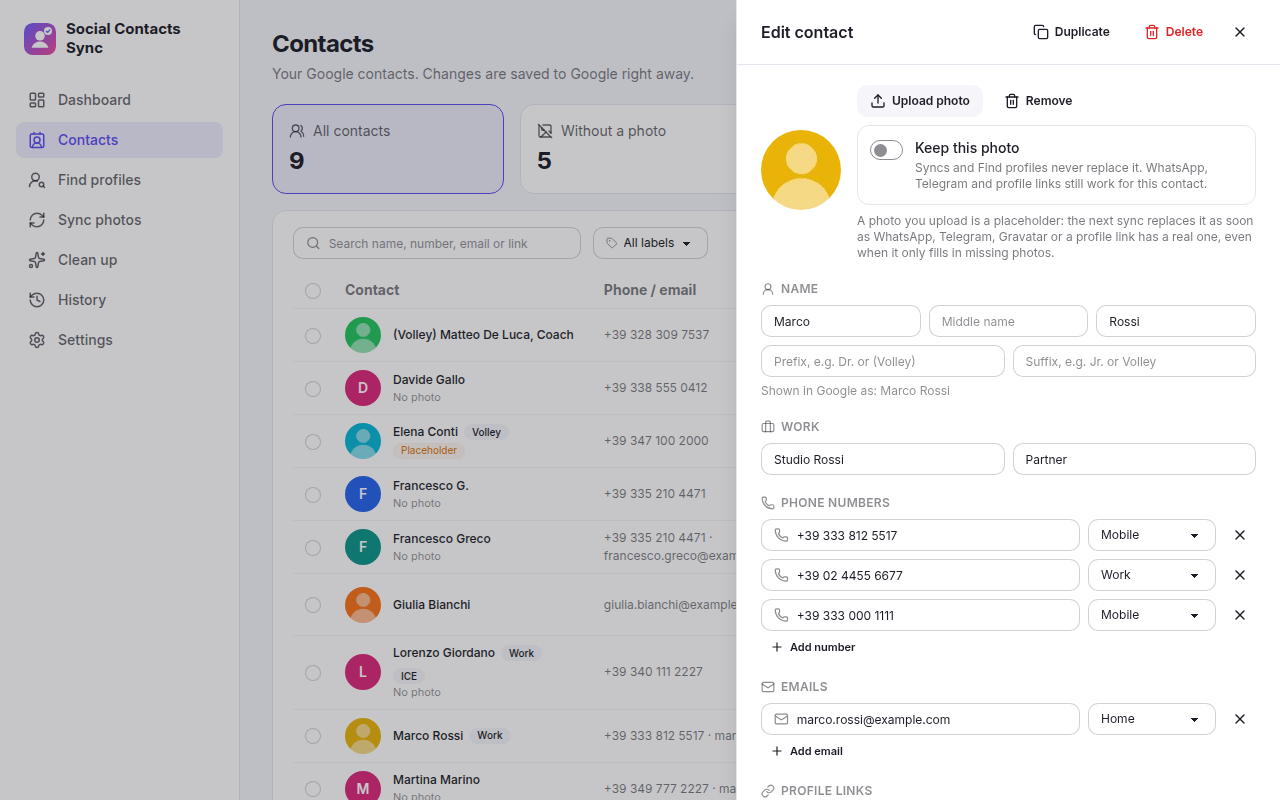
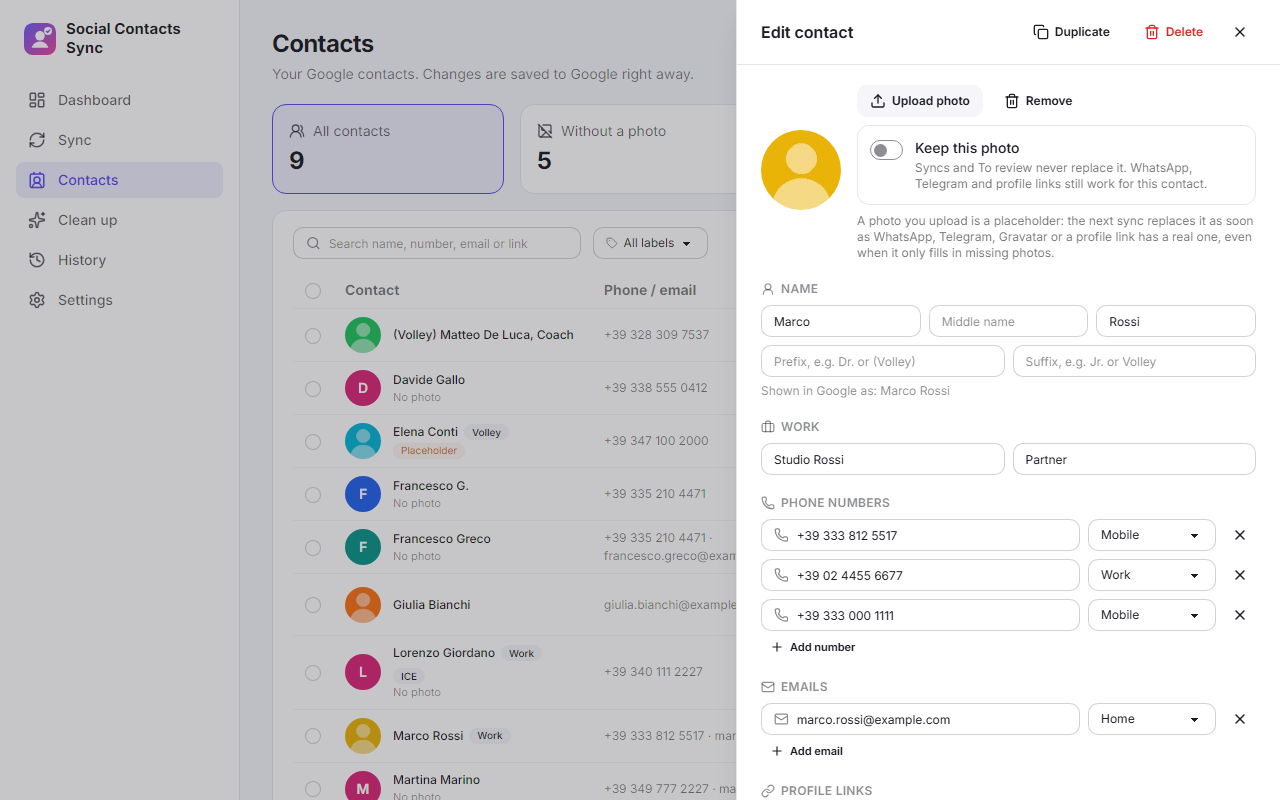
Document v1.4.0: CHANGELOG, README and screenshots
The CHANGELOG gets the 1.4.0 entry. The README describes the Sync page
(To review, Sources, Run), photos that follow their source, review
sessions in History and the Dashboard's next steps, lists the new data
files, and its screenshots come from the current app. Images nothing
links to any more are removed.

diff --git a/README.md b/README.md
@@ -24,7 +24,7 @@
 > [support him too](https://www.buymeacoffee.com/guyzyl).
 
 <p align="center">
-    <img src="docs/images/dashboard.png" alt="Dashboard: photo coverage, sources, recent activity" width="820"/>
+    <img src="docs/images/dashboard.png" alt="Dashboard: photo coverage in three parts, next steps, sources and recent activity" width="820"/>
 </p>
 
 ## Features
@@ -36,25 +36,35 @@
   profiles saved on a contact give it their public picture, with no sign-in.
   Instagram, Facebook and LinkedIn can be turned on too, unofficially. Add a
   link right from a sync report's "No photo found" list, or while reviewing.
-- **You stay in control.** Fill in only missing photos, replace them all, or
-  review each one with the keyboard.
-- **Nothing changes without a way back.** Every sync has a report and can be
-  undone, as a whole or one contact at a time.
-- **Find profiles.** Suggests the social profiles of your contacts, from your
-  own Instagram and LinkedIn data exports, a public search by name on Bluesky,
-  Mastodon and GitHub, and, experimental and off by default, a slow scan of
-  your own followers, friends and connections with your Instagram, Facebook or
-  LinkedIn login (against those sites' terms: your account may be limited or
-  suspended). Review them as a list or one contact at a time, link several
-  profiles to a contact and pick whose photo to use, or select many contacts
-  and link them in one go.
+- **A sync that applies what is safe.** It fills in missing photos and updates
+  the ones that follow a source. Everything else waits in *To review*: a
+  different photo for a contact that already has one, or a photo changed
+  outside the app. Or decide every contact yourself.
+- **Photos follow their source.** A photo picked from WhatsApp, Gravatar or a
+  profile keeps following it, so later syncs bring its new picture. A photo you
+  change by hand in Google is never overwritten.
+- **To review.** One card per contact, kept between sessions. Tick the social
+  profiles that are really them, and pick one photo among every source and
+  every profile. Confirm one contact, or select many and confirm them in one
+  go. The suggestions come from:
+  - your own Instagram and LinkedIn data exports;
+  - a public search by name on Bluesky, Mastodon and GitHub;
+  - experimental and off by default, a slow scan of your own followers, friends
+    and connections with your Instagram, Facebook or LinkedIn login. This goes
+    against those sites' terms: your account may be limited or suspended.
+- **Nothing changes without a way back.** Every sync and every review session
+  is in History, with a report. Undo one contact or the whole entry: the photo,
+  the profile links and the source the photo followed go back together.
+- **A dashboard that says what to do next.** How many contacts have a photo,
+  how many have one ready, and how many have no source yet, with the next steps
+  in order of impact.
 - **Contacts.** Every Google contact in one list, with the ones still without a
   photo one click away: edit every field, add, duplicate, delete, merge and
   label them, add a profile link to anyone, and upload photos by hand, one at a
   time or many at once. A photo uploaded by hand is a placeholder: the next sync
-  replaces it as soon as a source has a real one. Or keep a photo: then no sync
-  and no Find profiles replaces it, while links to WhatsApp and social profiles
-  still work for that contact.
+  replaces it as soon as a source has a real one. Or keep a photo: then nothing
+  in the app replaces it, while links to WhatsApp and social profiles still
+  work for that contact.
 - **Clean up.** Find duplicate contacts and merge them field by field, find
   numbers saved on different people, and add missing country codes. Every
   change is backed up and can be undone from History.
@@ -63,15 +73,15 @@
   and sign-ins are kept encrypted with your system's keychain.
 - **English and Italian; light, dark or system theme.**
 
-| Sync photos | Report and undo |
+| To review | Run a sync |
 |---|---|
-| ![Sync setup](docs/images/sync-setup.png) | ![Sync report](docs/images/sync-report.png) |
-| **Contacts** | **Edit every field, or keep a photo** |
-| ![Contacts](docs/images/contacts.png) | ![Contact editor](docs/images/contact-edit.png) |
-| **Find profiles** | **Where the profiles come from** |
-| ![Find profiles](docs/images/find-profiles.png) | ![Find profiles sources](docs/images/find-profiles-sources.png) |
-| **Add a profile link from a report** | **Updates with progress** |
-| ![Add a profile link](docs/images/report-add-link.png) | ![Update ready](docs/images/updates.png) |
+| ![To review](docs/images/sync-review.png) | ![Run a sync](docs/images/sync-run.png) |
+| **Where photos come from** | **Report and undo** |
+| ![Sync sources](docs/images/sync-sources.png) | ![Sync report](docs/images/sync-report.png) |
+| **History: syncs and reviews** | **Contacts** |
+| ![History](docs/images/history.png) | ![Contacts](docs/images/contacts.png) |
+| **Edit every field, or keep a photo** | **Updates with progress** |
+| ![Contact editor](docs/images/contact-edit.png) | ![Update ready](docs/images/updates.png) |
 | **Clean up duplicates** | **Setup wizard** |
 | ![Clean up](docs/images/cleanup.png) | ![Google project setup](docs/images/setup-google.png) |
 
@@ -123,7 +133,8 @@ The packages are not code-signed yet:
 4. **Link WhatsApp** by scanning a QR code, like WhatsApp Web, and/or **sign in
    to Telegram** with your phone number and the code Telegram sends you.
    Gravatar and profile links need no sign-in.
-5. **Sync photos** from the dashboard, and look at **Clean up** for duplicates.
+5. **Run a sync** from **Sync**, then go through what waits in **To review**.
+   The dashboard says what to do next, and **Clean up** finds duplicates.
 
 Google allows about 40 photo updates per minute, so a large address book takes a
 while; the app shows progress and an estimate.
@@ -285,12 +296,15 @@ The app stays signed in between launches, unless you turn off
 | `secret.key` | the key for `google-token.enc`, itself protected by the OS keychain (DPAPI, Keychain, libsecret/kwallet) |
 | `whatsapp/` | WhatsApp's linked-device session |
 | `telegram-session.enc` | the Telegram sign-in, encrypted like the Google one |
-| `history/` | past syncs with the photos they changed, for reports and undo (kept 90 days) |
+| `history/` | past syncs and review sessions with the photos they changed, for reports and undo (kept 90 days) |
 | `history/cleanup/` | backups of merged contacts (all their fields and photos), for undo (kept 90 days) |
 | `cleanup.json` | clean-up choices, such as groups marked *Not duplicates* |
 | `placeholders.json` | which contacts have a photo uploaded by hand on the Contacts page, so a sync can replace it |
 | `kept-photos.json` | which contacts' photos are kept: the app never replaces them |
-| `profiles.json` | Find profiles: the people read from your exports, searches and scans, and your answers |
+| `profiles.json` | the people read from your exports, searches and scans, and your answers in To review |
+| `review-queue.json` | the photos a sync sent to *To review*, and the ones you turned down |
+| `photo-pins.json` | which source each contact's photo follows |
+| `profile-reads.json` | desktop: what was read from each pinned profile with your login, and when |
 | `review-photos/` | the profile photos shown in Sync's *To review*, so a card keeps its photo after the site's address for it expires (kept 90 days) |
 | `update-pending.json` | for a moment while an update installs: what to do when it's done |
 | `logs/` | server logs |

diff --git a/CHANGELOG.md b/CHANGELOG.md
@@ -3,6 +3,81 @@
 What changed in each release of Social Contacts Sync. The packages are on the
 [releases page](https://github.com/easly1989/social-contacts-sync/releases).
 
+## 1.4.0 — 2026-10-18
+
+### Added
+
+- **One Sync page.** Find profiles and Sync photos are now one page with three
+  tabs: *To review*, *Sources* and *Run*. The old addresses lead to the right
+  tab, and the Sync item in the sidebar shows how many contacts wait in To
+  review. ([#81](https://github.com/easly1989/social-contacts-sync/issues/81))
+- **To review, kept between sessions.** One card per contact. Tick the
+  profiles that are really them, and pick one photo among every source:
+  WhatsApp, Telegram, Gravatar and each profile on its own, suggested or already
+  linked. Confirming links the profiles and applies the photo in one step. The
+  queue survives restarts, and you can work through it while a sync runs.
+  ([#77](https://github.com/easly1989/social-contacts-sync/issues/77),
+  [#81](https://github.com/easly1989/social-contacts-sync/issues/81))
+- **A sync that applies what is safe.**
+  ([#82](https://github.com/easly1989/social-contacts-sync/issues/82))
+  - *Run* fills in missing photos and updates the photos that follow a source.
+  - Everything else waits in To review: a different photo for a contact that
+    already has one, or a photo changed outside the app.
+  - *I decide every contact* applies nothing and sends every photo found to To
+    review.
+  - Progress shows each phase, with counters for applied, to review, no photo
+    found and errors.
+- **Photos follow their source.** A photo picked from a source keeps following
+  it, so later syncs update it when that profile's picture changes. A photo
+  changed by hand in Google is never overwritten: it waits in To review, where
+  you keep it or go back to the source's photo. The contact editor shows where
+  a photo comes from, and lets you unpin it.
+  ([#78](https://github.com/easly1989/social-contacts-sync/issues/78))
+- **Desktop: pinned profiles read again with your login.**
+  - Before the photos, a sync reads the pinned Instagram and Facebook profiles
+    one by one with your login, oldest first.
+  - It stops reading a network when that network asks to slow down, and the
+    report says how many profiles were read.
+  - LinkedIn can be read the same way, behind a setting and a first-time
+    notice: LinkedIn may record each read as a profile visit.
+  - Looking up an Instagram, Facebook or LinkedIn link uses the login too.
+  - ([#79](https://github.com/easly1989/social-contacts-sync/issues/79),
+    [#80](https://github.com/easly1989/social-contacts-sync/issues/80))
+- **Linked profiles per network.** Sources lists the profiles linked on your
+  contacts for each network. It shows how many there are and when the oldest
+  was read, and each network has its own switch.
+  ([#83](https://github.com/easly1989/social-contacts-sync/issues/83))
+- **Reviews in History.**
+  ([#84](https://github.com/easly1989/social-contacts-sync/issues/84))
+  - The decisions made in To review are saved as *Review* entries, next to the
+    syncs.
+  - Undo for one contact, or a whole entry, puts back the photo, the profile
+    links and the source the photo followed.
+  - A *Linked profiles* filter lists each profile linked from To review, with
+    its own Undo.
+- **A Dashboard that says what to do next.**
+  ([#85](https://github.com/easly1989/social-contacts-sync/issues/85))
+  - Coverage in three parts: with a photo, without one but with a photo ready,
+    and without any source.
+  - *Next steps*, in order of impact, each with its action.
+  - Real numbers for the sources: the contacts on WhatsApp and the linked
+    profiles.
+
+### Changed
+
+- The *Fill in missing*, *Replace all* and *Review each* modes are replaced by
+  the Run tab's options. Past runs keep their reports and undo.
+- The *Profile links* best-effort switch in Settings is replaced by the
+  per-network switches in Sync › Sources.
+- To review and the Sync badge are faster on large address books.
+- The review photos are smaller, two per row on a phone, and the run report's
+  table fits a phone screen.
+
+### Removed
+
+- Find profiles' *Linked* tab: its links are in History, under *Linked
+  profiles*.
+
 ## 1.3.3 — 2026-10-15
 
 ### Fixed

diff --git a/CLAUDE.md b/CLAUDE.md
@@ -76,14 +76,16 @@ them to `syncEngine.ts` (`runSync` with `RunOptions`): what is safe is applied, 
 the To review queue (`profiles/queue.ts`). Progress travels over the `/api/ws` WebSocket as
 `interfaces/api.ts` `EventType`s. Google writes go through `gapi.ts` behind a rate limiter (~40
 photo updates/min) with `googleRetry.ts`. Every run is saved by `runs.ts` with before/after photos
-so `undo.ts` can revert a whole run or one contact.
+so `undo.ts` can revert a whole run or one contact; decisions made in To review are saved the same
+way as Review entries (`recordDecision`), and undo also puts back their links and photo pin.
 
 **Photo protection rules** that every writer must respect: `contacts/placeholders.ts` (photos
 uploaded by hand — a sync may replace them) and `contacts/keptPhotos.ts` (kept photos — never
-replaced by sync or Find profiles).
+replaced by a sync or from To review), and `contacts/photoPins.ts` (the source a photo follows).
 
 **Other server areas:** `cleanup/` (duplicate scan, field-by-field merge, backups for undo),
-`profiles/` (Find profiles: data-export imports, public searches, matching, `profiles.json` store),
+`profiles/` (To review and its suggestions: data-export imports, public searches, matching, the
+`profiles.json` store, the review queue, login rereads, the History migration),
 `contactLinks.ts` / `linkLookups.ts` (profile-link pictures), `secretStore.ts` (AES-256-GCM token
 storage keyed by an OS-keychain-protected key).
 
